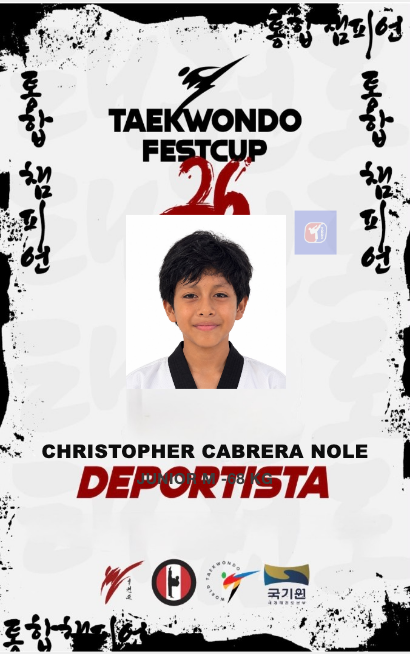
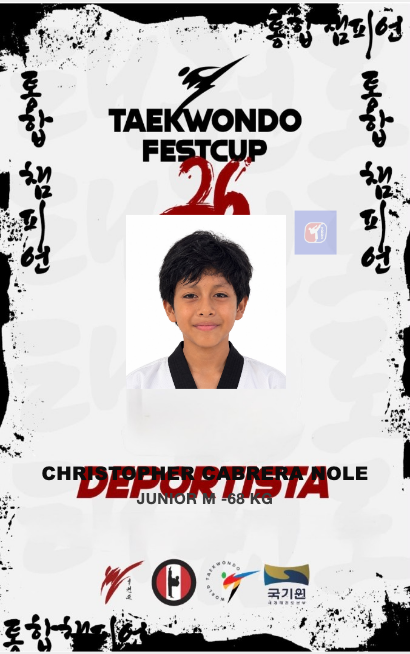
Ajusta posición del nombre bajo DEPORTISTA/ENTRENADOR en plantilla FestCup.

Changed region(s): [[0.0878, 0.6728, 0.9073, 0.7951]]

diff --git a/src/lib/campeonato/credencial-layout.js b/src/lib/campeonato/credencial-layout.js
@@ -7,7 +7,7 @@ export const DEFAULT_CREDENCIAL_LAYOUT = {
 /** FestCup 2026 · plantillas limpias (rol en JPG) + foto, nombre, categoría y logo academia */
 export const FESTCUP_2026_CREDENCIAL_LAYOUT = {
   foto: { type: 'rect', left: 50, top: 46.2, width: 39.2, height: 26.8 },
-  datos: { left: 50, top: 67.4, width: 92, height: 14 },
+  datos: { left: 50, top: 70.6, width: 92, height: 12 },
   academiaLogo: { left: 77, top: 35.5, width: 10.5, opacity: 0.28 },
   rolOnTemplate: true,
   variant: 'festcup2026',
